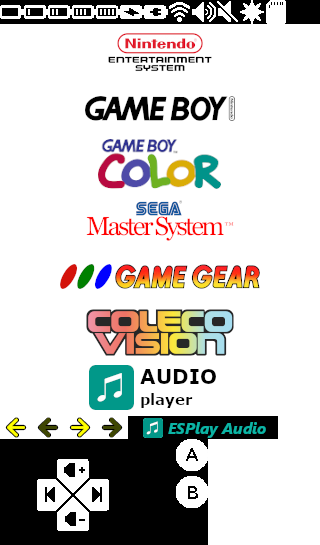
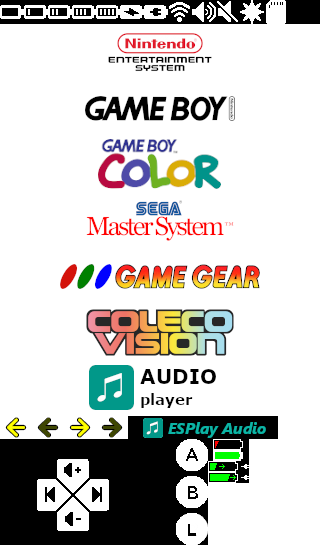
small update charge management and audio player

diff --git a/esplay-launcher/main/main.c b/esplay-launcher/main/main.c
@@ -10,6 +10,12 @@
 #include "esp_ota_ops.h"
 #include "esp_heap_caps.h"
 #include "esp_http_server.h"
+#include "soc/dport_reg.h"
+
+#include "rom/rtc.h"
+#include "soc/soc.h"
+#include "soc/rtc.h"
+#include "soc/rtc_cntl_reg.h"
 
 #include "settings.h"
 #include "gamepad.h"
@@ -47,6 +53,52 @@ esp_err_t start_file_server(const char *base_path);
 esp_err_t event_handler(void *ctx, system_event_t *event)
 {
     return ESP_OK;
+}
+
+static void handleCharging() {
+	int r;
+	int fullCtr=0;
+	//The LiIon charger sometimes goes back from 'full' to 'charging', which is
+	//confusing to the end user. This variable becomes true if the LiIon has indicated 'full'
+	//for a while, and it being true causes the 'full' icon to always show.
+	int fixFull=0;
+
+	//Force brightness low to decrease chance of burn-in
+	set_display_brightness(30);
+	printf("Detected charger.\n");
+	guiCharging(0);
+
+	//Speed down
+	rtc_clk_cpu_freq_set(RTC_CPU_FREQ_80M);
+    input_gamepad_state prevKey;
+    gamepad_read(&prevKey);
+	do {
+        input_gamepad_state key;
+        gamepad_read(&key);
+		r=getChargeStatus();
+		if (r==FULL_CHARGED || fixFull) {
+			guiFull();
+			printf("Full!\n");
+			fullCtr++;
+		} else if (r==CHARGING) {
+            battery_level_read(&bat_state);
+			guiCharging(bat_state.millivolts > 4100);
+			printf("Charging...\n");
+			fullCtr=0;
+		}
+
+		if (!prevKey.values[GAMEPAD_INPUT_A] && key.values[GAMEPAD_INPUT_A]) {
+			printf("Power btn A; go to launcher menu\n");
+			break;
+		}
+		if (fullCtr==32) {
+			fixFull=1;
+		}
+		vTaskDelay(1);
+        prevKey = key;
+	} while (r!=NO_CHRG);
+
+    rtc_clk_cpu_freq_set(RTC_CPU_FREQ_240M);
 }
 
 static void drawHomeScreen()
@@ -379,7 +431,11 @@ void app_main(void)
     sdcard_open("/sd"); // map SD card.
 
     ui_init();
+    charging_state st = getChargeStatus();
+    if (st == CHARGING)
+        handleCharging();
 
+    UG_FontSelect(&FONT_8X12);
     if(settings_load(SettingWifi, &wifi_en) != 0)
         settings_save(SettingWifi, (int32_t)wifi_en);
     if(settings_load(SettingAudioVolume, &volume) != 0)

diff --git a/esplay-launcher/main/audio_player.c b/esplay-launcher/main/audio_player.c
@@ -101,6 +101,7 @@ static PlayerState player_state = {
 };
 static bool keys_locked = false;
 static bool backlight_on = true;
+static bool speaker_on = false;
 
 // These need to be implemented for SDL/FreeRTOS seperately
 static PlayerCmd player_poll_cmd(void);
@@ -202,7 +203,7 @@ static PlayerResult handle_cmd(PlayerState *const state, const AudioInfo info, c
 		if (state->playing)
 		{
 			audio_init((int)info.sample_rate);
-			audio_amp_disable();
+			speaker_on ? audio_amp_enable() : audio_amp_disable();
 		}
 		else
 		{
@@ -214,7 +215,7 @@ static PlayerResult handle_cmd(PlayerState *const state, const AudioInfo info, c
 		if (state->playing)
 			audio_terminate();
 		audio_init((int)info.sample_rate);
-		audio_amp_disable();
+		speaker_on ? audio_amp_enable() : audio_amp_disable();
 		push_audio_event(AudioPlayerEventStateChanged);
 		break;
 	case PlayerCmdToggleLoopMode:
@@ -272,7 +273,7 @@ static PlayerResult play_song(const Song *const song)
 	}
 
 	audio_init((int)info.sample_rate);
-	audio_amp_disable();
+	speaker_on ? audio_amp_enable() : audio_amp_disable();
 
 	int n_frames = 0;
 	state->playing = true;
@@ -434,6 +435,7 @@ static void draw_player(const PlayerState *const state)
 	// Show Playing or paused/DAC on image
 	UG_PutString(222, y + 11, state->playing ? "Pause" : "Continue");
 	UG_PutString(222, y + 50, "Go Back");
+	UG_PutString(222, y + 89, speaker_on ? "Speaker off" : "Speaker on");
 	y += 115;
 
 	// Explain start and stop button behaviour
@@ -633,6 +635,12 @@ static void handle_keypress(event_keypad_t keys, bool *quit)
 	{
 		set_display_brightness(backlight_on ? 0 : 50);
 		backlight_on = !backlight_on;
+	}
+	if (!lastJoystickState.values[GAMEPAD_INPUT_L] && joystick.values[GAMEPAD_INPUT_L])
+	{
+		speaker_on = !speaker_on;
+		speaker_on ? audio_amp_enable() : audio_amp_disable();
+		draw_player(&player_state);
 	}
 
 	lastJoystickState = joystick;

diff --git a/esplay-launcher/main/graphics.c b/esplay-launcher/main/graphics.c
@@ -7,6 +7,13 @@ static const char gfxTile[]={
 #include "gfxTile.inc"
 };
 
+#define GFX_O_EMPTY 0
+#define GFX_O_FULL 1
+#define GFX_O_CHG 2
+#define GFX_O_CHGNEARFULL 3
+
+const char * chargeinfo = "Press A to Play";
+
 void renderGraphics(int dx, int dy, int sx, int sy, int sw, int sh)
 {
     uint16_t *fb = ui_get_fb();
@@ -40,6 +47,34 @@ void renderGraphics(int dx, int dy, int sx, int sy, int sw, int sh)
 			fb[(dy+y)*320+(dx+x)]=i;
 		}
 	}
+}
+
+void guiCharging(int almostFull) {
+	ui_clear_screen();
+    UG_FontSelect(&FONT_6X8);
+    UG_PutString((320 - strlen(chargeinfo) * 7)/2, ((240 - 11)/2)+15, chargeinfo);
+	if (!almostFull) {
+		renderGraphics((320-41)/2, (240 - 11)/2, 208, 439 + (11*GFX_O_CHG), 41, 11);
+	} else {
+		renderGraphics((320-41)/2, (240 - 11)/2, 208, 439 + (11*GFX_O_CHGNEARFULL), 41, 11);
+	}
+	ui_flush();
+}
+
+void guiFull() {
+	ui_clear_screen();
+    UG_FontSelect(&FONT_6X8);
+    UG_PutString((320 - strlen(chargeinfo) * 7)/2, ((240 - 11)/2)+15, chargeinfo);
+	renderGraphics((320-41)/2, (240 - 11)/2, 208, 439 + (11*GFX_O_FULL), 41, 11);
+	ui_flush();
+}
+
+void guiBatEmpty() {
+	ui_clear_screen();
+    UG_FontSelect(&FONT_6X8);
+    UG_PutString((320 - strlen(chargeinfo) * 7)/2, ((240 - 11)/2)+15, chargeinfo);
+	renderGraphics((320-41)/2, (240 - 11)/2, 208, 439 + (11*GFX_O_EMPTY), 41, 11);
+	ui_flush();
 }
 
 void drawBattery(int batPercent)

diff --git a/esplay-launcher/main/include/graphics.h b/esplay-launcher/main/include/graphics.h
@@ -3,3 +3,6 @@
 void renderGraphics(int dx, int dy, int sx, int sy, int sw, int sh);
 void drawBattery(int batPercent);
 void drawVolume(int volume);
+void guiCharging(int almostFull);
+void guiFull();
+void guiBatEmpty();
